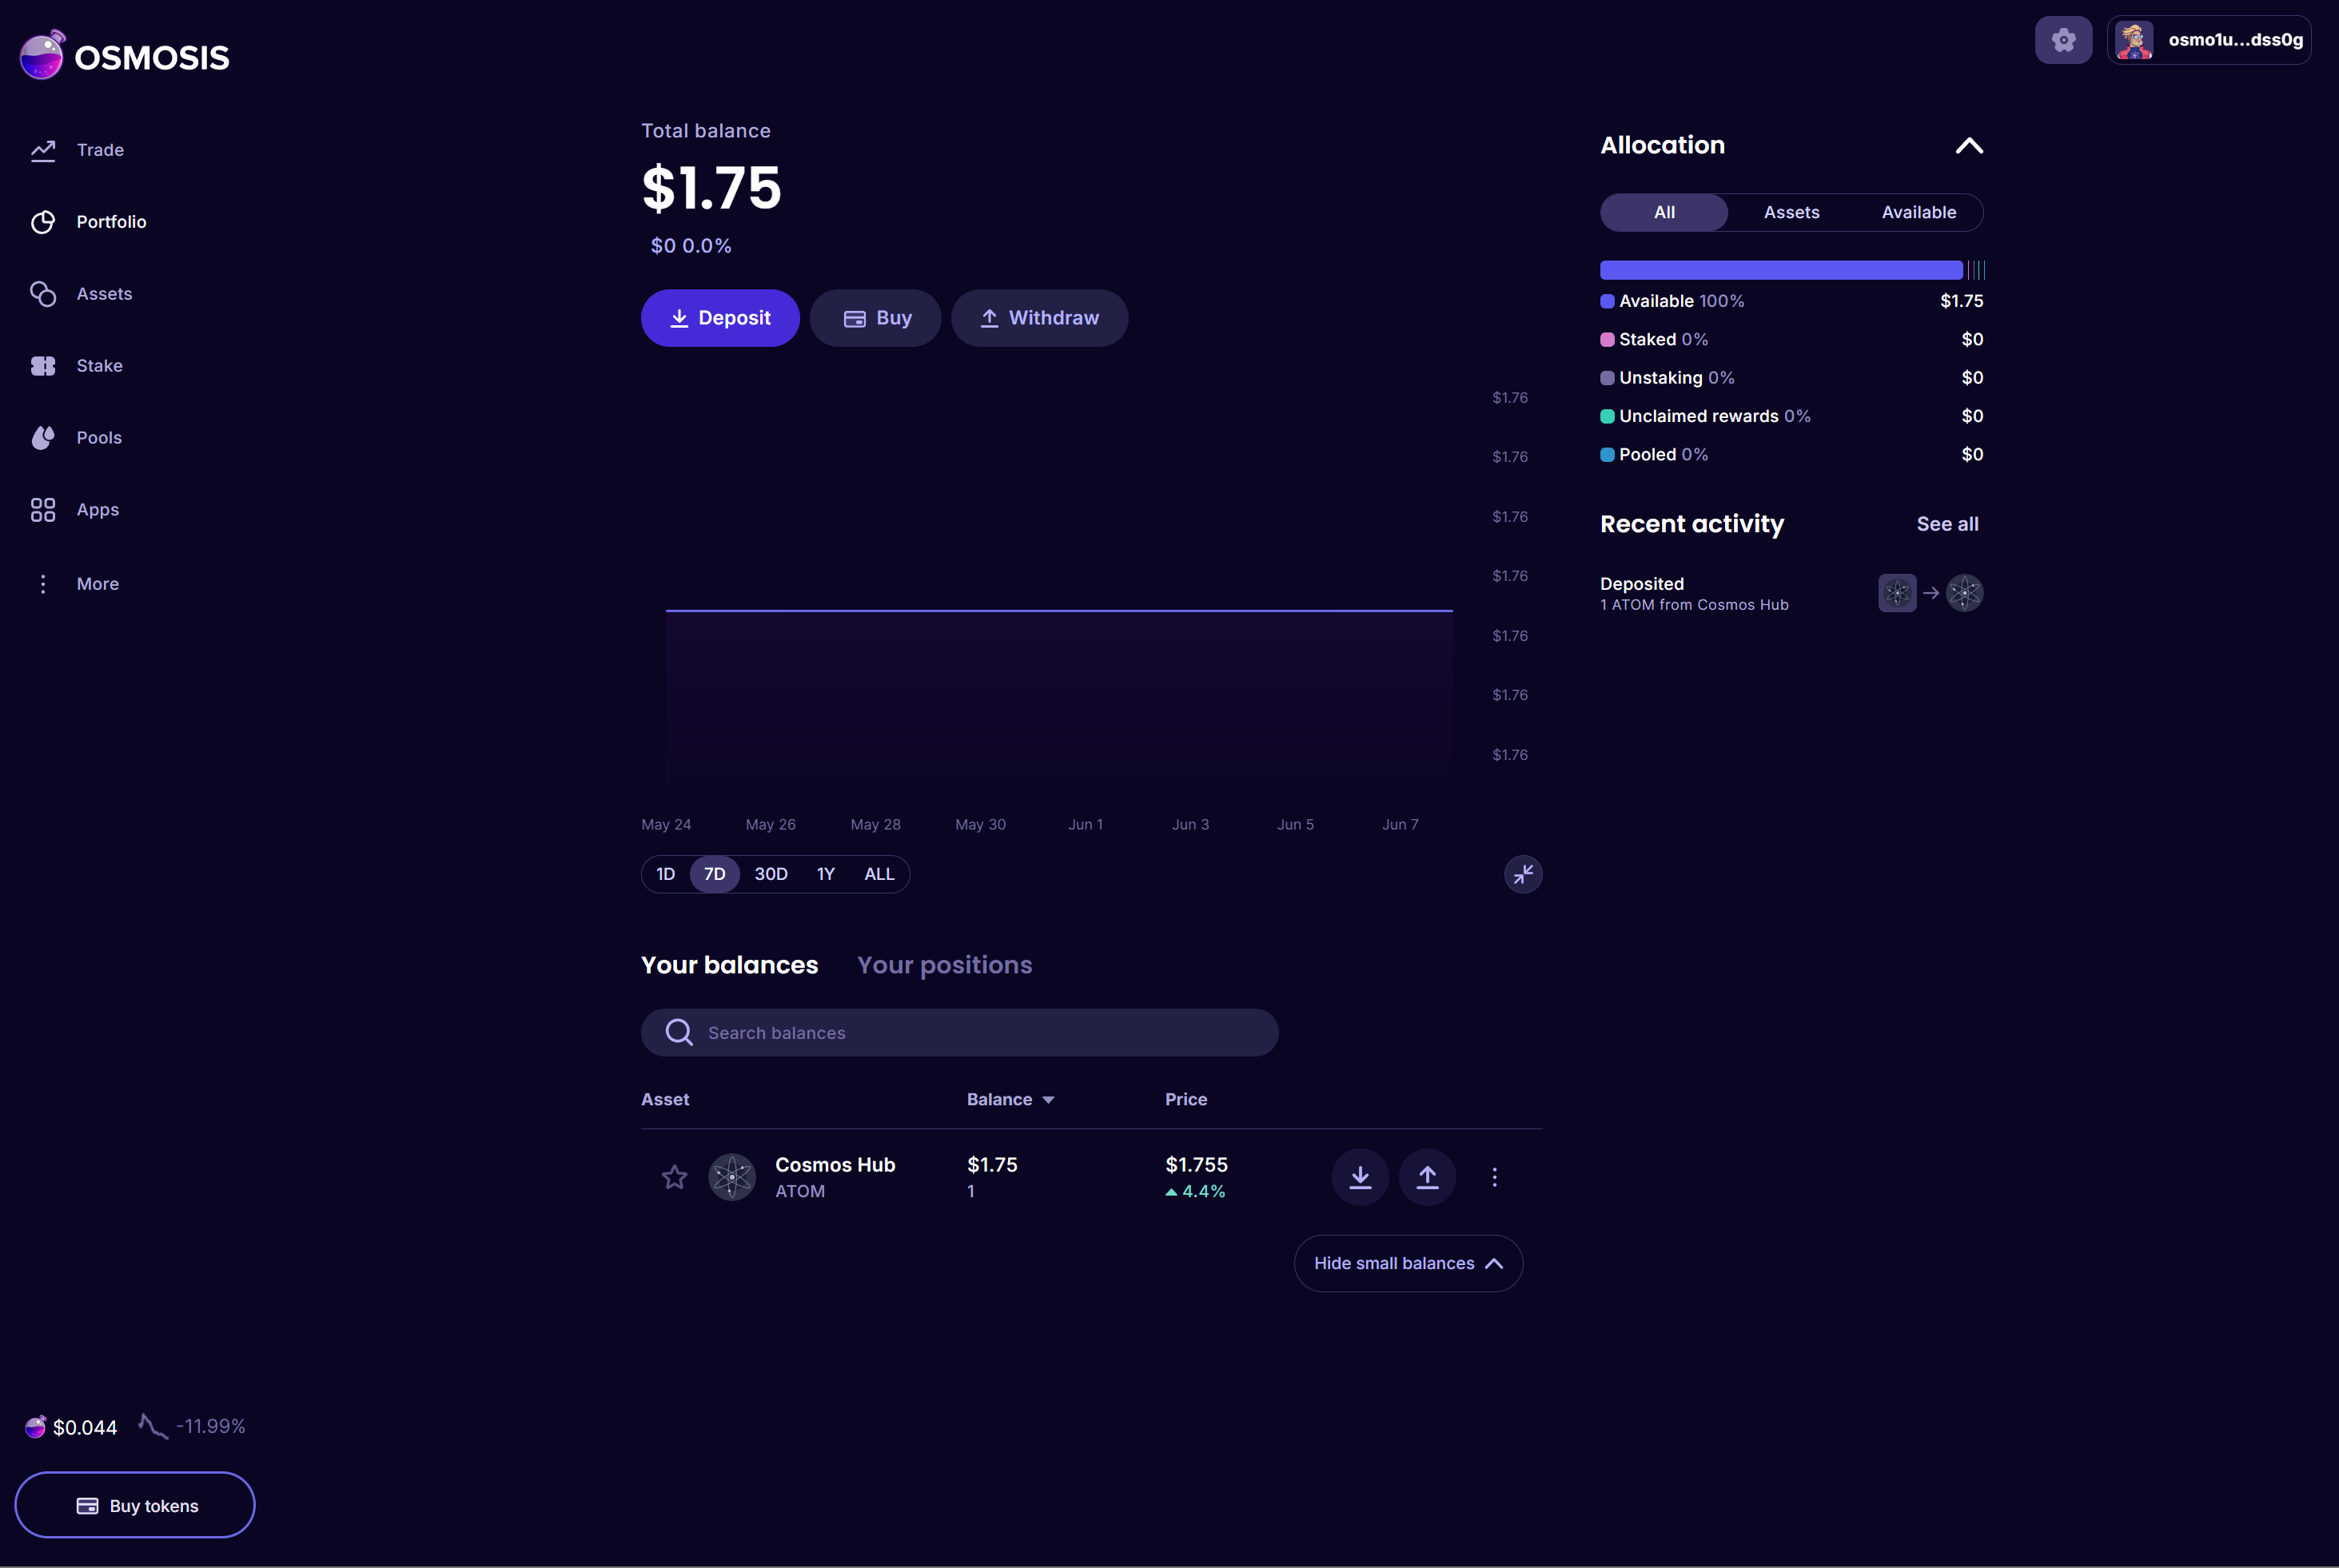
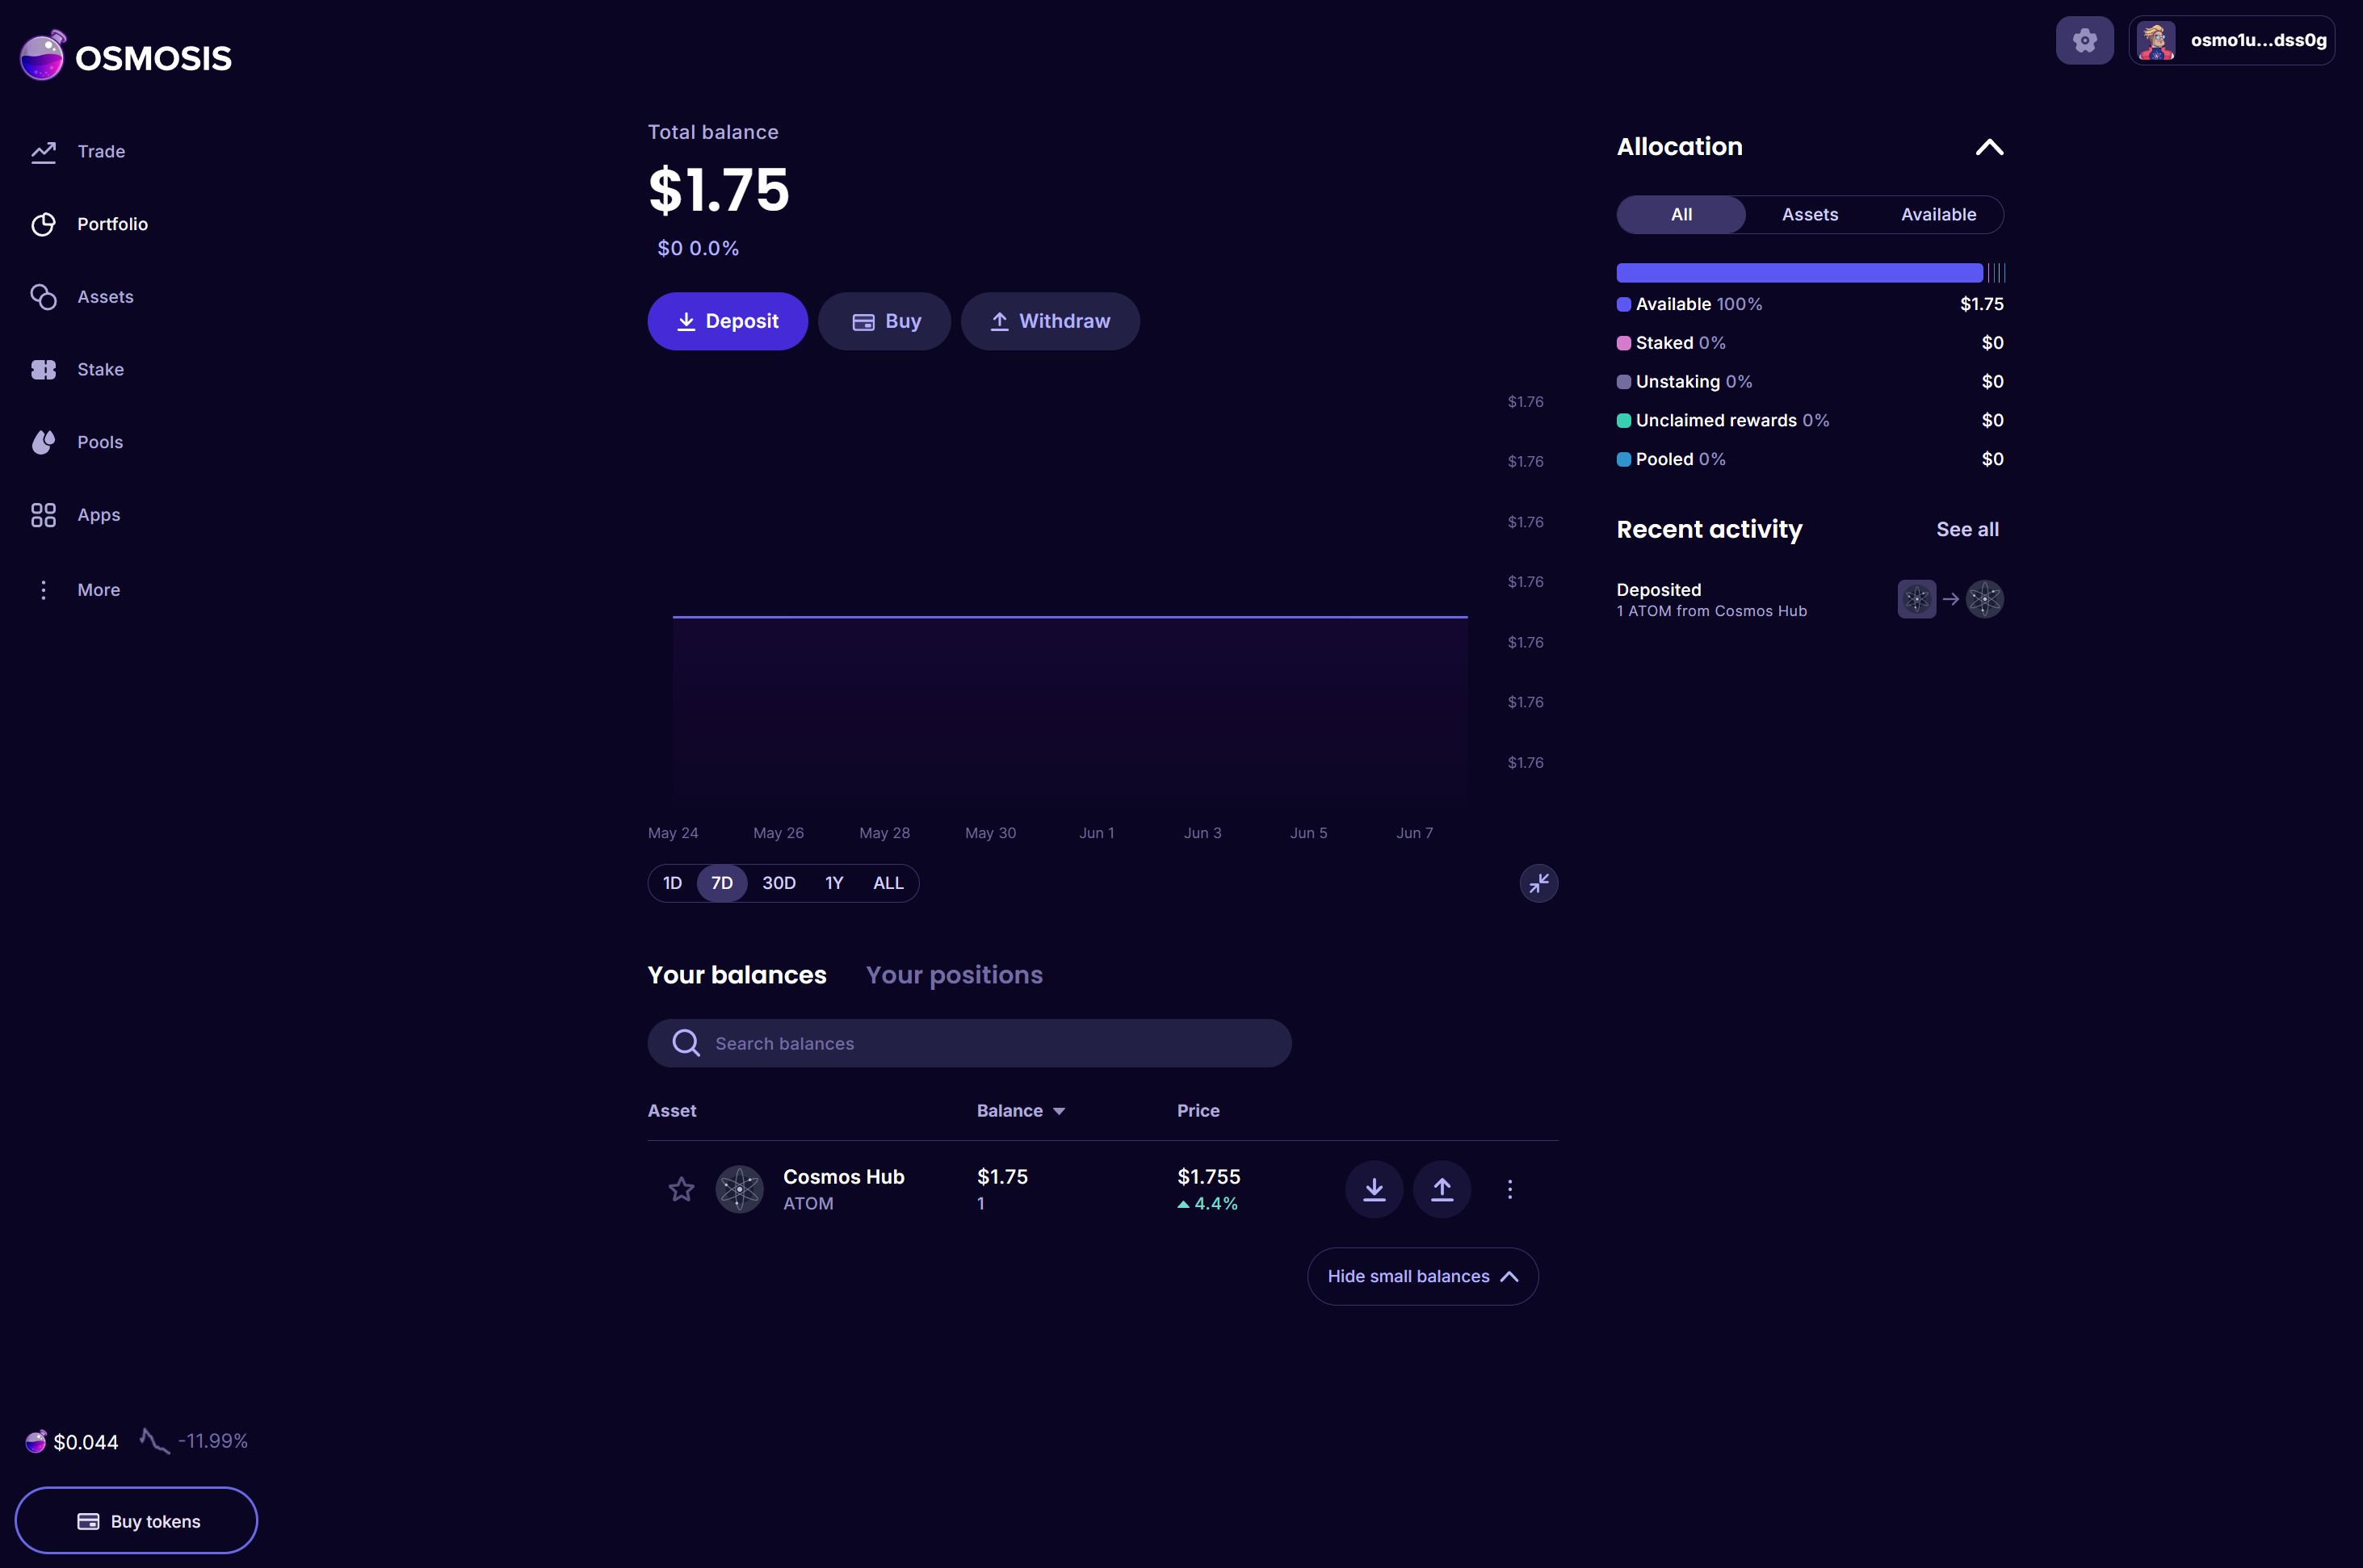
docs(learn): fix renamed image refs, add trade flow + one-click trading, CL animated explainers

diff --git a/docs/learn/features/concentrated-liquidity.md b/docs/learn/features/concentrated-liquidity.md
@@ -15,4 +15,26 @@ The tradeoff is involvement. Your liquidity only earns while the price is inside
 
 This design also enables features that a single curve cannot, such as range orders (providing liquidity entirely on one side of the current price, which behaves like a limit order).
 
+## In pictures
+
+In a classic pool, liquidity is distributed across the full range of possible prices. With concentrated liquidity, it can be focused around the current price, massively increasing capital efficiency.
+
+![Classic full-range liquidity versus liquidity concentrated around the current price](@site/docs/assets/cl-step1.gif)
+
+You pick a strategy that suits you. A passive strategy spreads a little liquidity across a wide span: you earn less, but rarely go out of range.
+
+![A wide, passive liquidity range](@site/docs/assets/cl-step2.gif)
+
+A more aggressive, narrow range earns more but is more likely to go out of range. While out of range, you stop earning on swaps, so it needs watching and occasional rebalancing.
+
+![A narrow, aggressive liquidity range](@site/docs/assets/cl-step3.gif)
+
+As with any AMM, when the price moves, your position converts toward one asset. If it moves fully out of range, you end up holding 100% of the other asset until the price re-enters your range.
+
+![A position converting to one asset as the price moves out of range](@site/docs/assets/cl-step4.gif)
+
+Across many LPs all running different strategies, liquidity becomes more dynamic and better optimized for traders.
+
+![Many liquidity providers with overlapping ranges](@site/docs/assets/cl-step5.gif)
+
 For the full mechanics (the math, tick handling, fee and incentive accounting, and precision details), see the [Concentrated Liquidity module page](/build/chain/concentrated-liquidity) under Build. To integrate against CL pools, see [Concentrated Liquidity Integration](/integrate/features/concentrated-liquidity-integration).

diff --git a/docs/learn/how-trading-works.md b/docs/learn/how-trading-works.md
@@ -36,6 +36,20 @@ A swap on Osmosis carries two kinds of fee:
 
 You also pay a network [gas](/learn/terminology#fees) fee to include the transaction in a block, like any onchain action. Thanks to [fee abstraction](/learn/features/fee-abstraction), you can pay that gas in many tokens, not only OSMO.
 
+## Making a swap
+
+To trade, go to the Trade page, pick the asset you are paying with and the one you want to receive, and enter an amount. Osmosis shows the expected output, the price impact, and the fees before you confirm.
+
+![Setting up a swap on the Trade page](@site/docs/assets/trade-start.png)
+
+Review the details and confirm the swap.
+
+![Confirming a swap](@site/docs/assets/trade-confirm.png)
+
+:::tip One-click trading
+Approving every swap in your wallet adds friction. Osmosis offers **one-click trading**: enable it once to authorize a session with a spending limit, and subsequent swaps execute without a separate wallet approval each time, until the session expires or the limit is reached. It is built on Osmosis [smart accounts](/learn/features/smart-accounts), so the authorization is scoped and revocable.
+:::
+
 ## What you get out
 
 Put together: when you swap, the router finds the best path across pools, your trade moves the price by some price impact, the spread factor and taker fee are taken, and the result must land within your slippage tolerance or the trade reverts. The next step from here is [providing liquidity](/learn/providing-liquidity), which is the other side of the same mechanism: supplying the assets that traders swap against, and earning the spread factor in return.

diff --git a/docs/learn/get-started.md b/docs/learn/get-started.md
@@ -18,7 +18,7 @@ Before opening the app, install a Cosmos wallet such as [Keplr](https://www.kepl
 
 Go to [app.osmosis.zone](https://app.osmosis.zone/).
 
-![The Osmosis app](@site/docs/assets/welcome.png)
+![The Osmosis app](@site/docs/assets/homepage.png)
 
 ## Connect Wallet
 
@@ -30,19 +30,19 @@ Connect your wallet and click Approve. This confirms you are connecting to app.o
 
 Most assets reach Osmosis over IBC from their home chain. To bring funds in, go to the Portfolio page and click Deposit next to the asset you want to bring in. For this example we deposit ATOM.
 
-![The Portfolio page with the deposit action](@site/docs/assets/started-portfolio-page.png)
+![The Portfolio page with the deposit action](@site/docs/assets/portfolio-start.png)
 
 Select the asset and the source chain it is coming from.
 
-![Selecting the asset to deposit](@site/docs/assets/started-deposit-page.png)
+![Selecting the asset to deposit](@site/docs/assets/deposit-start.png)
 
 Enter the amount you want to transfer.
 
-![Entering the deposit amount](@site/docs/assets/started-deposit-page2.png)
+![Entering the deposit amount](@site/docs/assets/deposit-start2.png)
 
 Review the transfer details and confirm.
 
-![Reviewing the deposit](@site/docs/assets/started-deposit-page3.png)
+![Reviewing the deposit](@site/docs/assets/deposit-start3.png)
 
 Approve the transaction in your wallet.
 

diff --git a/docs/learn/osmosis.md b/docs/learn/osmosis.md
@@ -8,7 +8,7 @@ Osmosis is the premier cross-chain DeFi hub. As the liquidity center and primary
 
 As IBC connects more and more chains, Osmosis is where their assets and users meet: a single venue to trade, provide liquidity, and move value across the interchain.
 
-![](@site/docs/assets/welcome.png)
+![](@site/docs/assets/homepage.png)
 
 The [Osmosis Zone Apps Page](https://app.osmosis.zone/apps) is a suite of dApps that are tightly integrated into the Osmosis AMMs and IBC routing capabilities. Many developer teams are building index tokens, options, perps, stops and limit orders, automated trading, yield vaults, NFTs, and more.
 With new apps and features like stableswap, concentrated liquidity, rate-limiting, in-protocol MEV capture, and more going live all the time, Osmosis is continuing to expand its moat as the only full-service, cross-chain exchange and DeFi hub, one that rivals the smooth user experience of a CEX without compromising on the benefits of decentralized finance: self-custody, trust-minimized transactions, direct onchain access, and privacy.